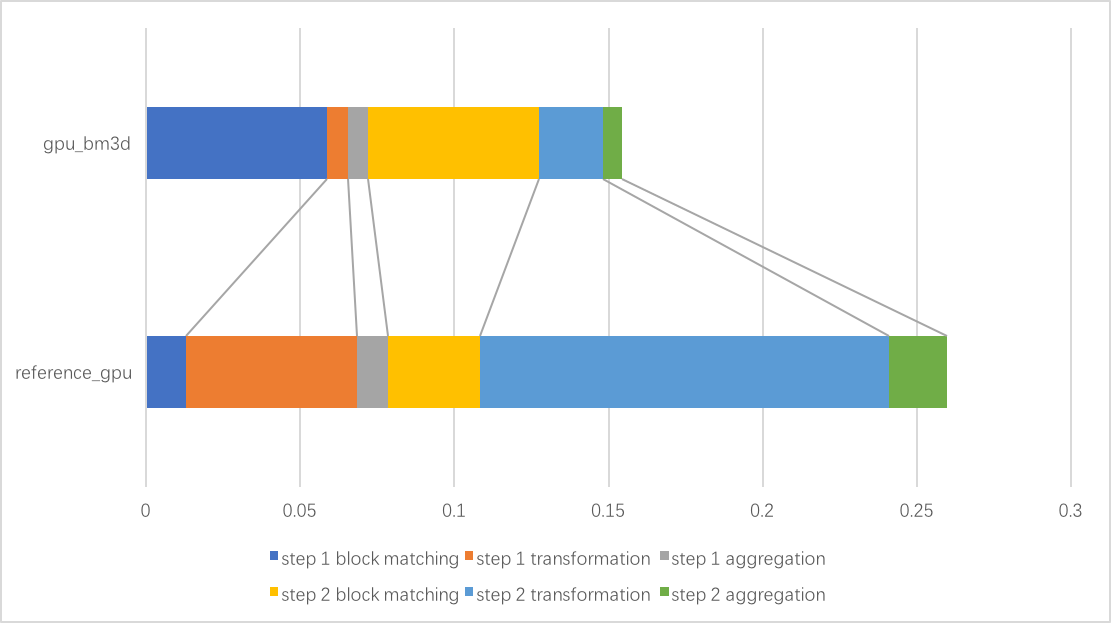
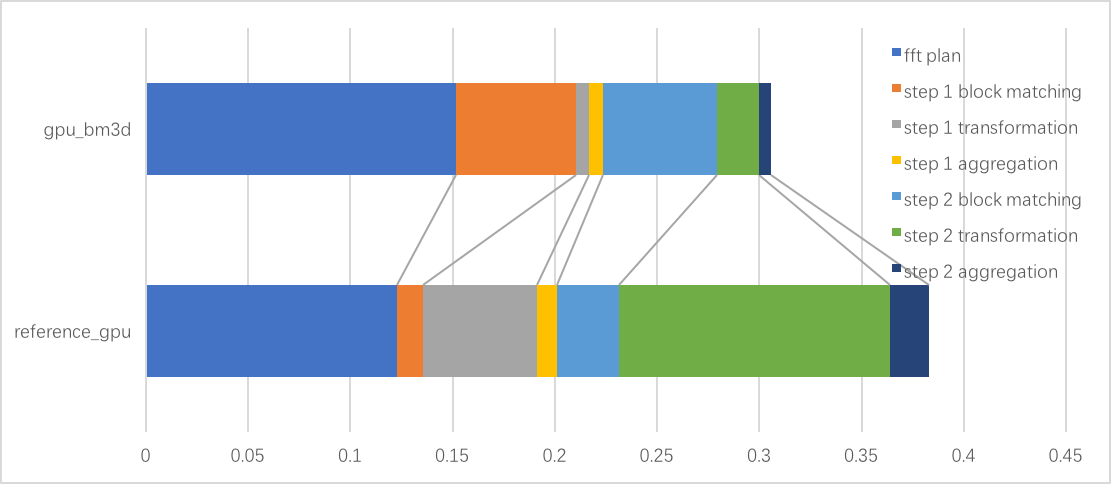
add more images

diff --git a/README.md b/README.md
@@ -111,21 +111,19 @@ Since GHC machine doesn't have opencv package and the version of opencv on lated
 - Week 4: Profile the implementation to find out bottlenecks. Optimize memory access and reduce extraneous communication.~~
 - Week 5: Analyze performance with open source implementation and write reports.
 
-## Final Report Outline
-1. Results to present:
-    1. PSNR
-    2. compare with opencv and bm3d-gpu
-    3. problem size!
-    4. break down chart (initialization, steps, blabla)
-    5. Block matching demonstration
-2. Experiments
-    1. 2d+1d -> 3d
-    2. pre computation
-    3. thresholding.
-    4. per-thread -> per-block allocation
-
-
 ## Approach
+
+### FFT
+
+CUDA has very fast FFT library for 1D, 2D and 3D transformation. To use the CUDA FFT transform, we need to create a transformation plan first which involves allocating buffers in the GPU memory and all the initialization. After creating the plan, we can apply the plan on the data and the actual computation is very fast (refer to the running time breakdown graph below). CUDA FFT also supports batch mode which allows us to perform a batch of transformation by calling API once and CUDA will handle all the kernel lauches optimization behind.
+
+Fast fourier transform is crucial to the BM3D algorithm and we tried different approaches for the transformation. In the original paper and reference implementation, they both separate the 3D transformation into 2D transformation on the patches and 1D transformation across the patches. (may need picture) So we tried this approach first to compare the performance. After the block matching stage, we will have an array of patch indices and also an array to store how many patches in each of the group. We then gather the data from the images according to these indices to form a 3D matrix. The first dimension is the patch width, the second dimension is the patch height and the third dimension is the patch number. 2D FFT will then transform this array into frequency domain. To perform the 1D transform across patches for each patch pixel location (figure), we need to reorganize the array to form a 4D matrix. The first dimension is the pixel value across patches in the same group, the second dimension is the patch width, the third dimension is the patch height and the fouth dimension is the group. In this way, the values to be transformed will be continuous in memory. We then apply the 1D transform and also the hard thresholding to filter the data. During the hard thresholding, we need to record number of non-zero values for each group as the coefficient for aggregation stage. So we map each thread to a group fo patches so that each thread will work independently.
+
+After thresholding, we apply the inverse 1D transform on the 4D matrix, which will then be reorganized back into 3D matrix for 2D inverse transform. Finally the aggregation step will put the patches back to the original image.
+
+In this approach, we will initialize two CUFFT transform plans, 2D and 1D. 2D transform will be applied in both steps on the original images. To save the computation time, we decide to precompute the 2D transformation for each patch in the original images. After the precomputation, we just fill up the 3D data matrix based on the block matching result. This actually saves the 2D forward transformation computation time. We still need to perform the inverse transformation. In our experiment the time saving is not significant. One batch of transformation on all the image patches only cost $$. Since CUFFT library is highly optimized. Once the plan is created, the actual computation time is very short and not all pathces are needed to be transformed. Thus it isn't worthwhile to precompute the all the transformation in the initialization. In fact, during the experiment, the number of transformation for precomputing all the patches and the inverse transformation of the group patches are different. In a single API call on one plan is not going to cater two needs. So we have two options. One is to create two plans with two batch size parameter for the two cases, but we found creating a CUFFT plan will need 0.2 seconds which is 20% of the total time. We need to create as few plan as possible. Another option is to fix the batch size, so that we have only one plan and call the API several times to perform all the transformations. However, calling the API multiple times will introduce large overhead by lauching kernels. The overhead will scale linearly by number of patches. Also, if we use 2D and 1D transformation, we need to reorganize the data layout between two transformation which will introduce extra computation time.
+
+To optimize the above problems, we turn to 3D transformation in the CUFFT library. In this approach, we only need one CUFFT transformation plan since the plan configuration is the same. We can set the batch size to the number of groups so that we only need to call the API once to perform all the transformation. Also, we do not need to change the data layout for the transformation. It turns out the execution of 3D transformation is very fast which taks only 0.006 seconds, 1.5% of the total time.
 
 ### Block matching
 We first divide the entire noisy image into a set of overlapping *reference patches*. This is done in a sliding-window manner, each patch has size of 8x8, with a stride of 3 by default. The last column and row are guaranteed to generate references, even if the dimensions of image may not be divisible by 3. 
@@ -147,9 +145,14 @@ We use two image-sized global buffers, *numerator* and *denominator* for storage
 For every pixel *p* in the stack, we use *atomic_add* statement to increment the corresponding *numerator* entry by *weight x p* and *denominator* by *weight*.
 After the accumulation is done, a reduction step, consisting of dividing every *numerator* entry by *denominator* entry is applied to normalize the pixel values.
 
+## Results Showcase
+![showcase of lenas results here image here](https://github.com/JeffOwOSun/gpu-bm3d/raw/master/assets/lenas.png)
+*Left: Original Lena; Mid: With noise variance=20; Right: Denoised Lena*
+
 ## Performance Analysis
 
 ### A different parallelization assignment
+We set out to explore a different work assignment approach from the reference open-source implementation.
 The *cuda_bm3d* implementation assigns every *reference patch* to a thread block in GPU, where as we assign a single thread a block of patches in both block matching and aggregation.
 
 ![block matching time versus grid search dimension image here](https://github.com/JeffOwOSun/gpu-bm3d/raw/master/assets/block_matching_scaling.png)
@@ -160,11 +163,10 @@ The *cuda_bm3d* implementation assigns every *reference patch* to a thread block
 
 *block matching time of different job assignment scheme versus number of total reference patches (adjusted by setting the reference patch stride). The matching scaling here is set to be 32 by 32*
 
+The apparent advantage of our parallelization scheme is its simplicity of implementation. However, it's obvious that the reference implementation's per-block assignment is much faster and more robust to increase in the problem size.
+
+One perceived bane of per-thread allocation is that memory access on warp level benefit from blocked access. A thread-level parallelization will suffer from contention and waste the shared-memory caches which are *much faster than global memory* per-documentatin.
+
 ### Running time breakdown
 ![running time breakdown image here](https://github.com/JeffOwOSun/gpu-bm3d/raw/master/assets/running_time_breakdown.png)
 *The bar chart of running time breakdown. Our implementation strips away unnecessary computation time in transformation. Note the difference in parallelization scheme results in difference in block matching and aggregation time*
-
-### Scalability with image size
-
-
-
